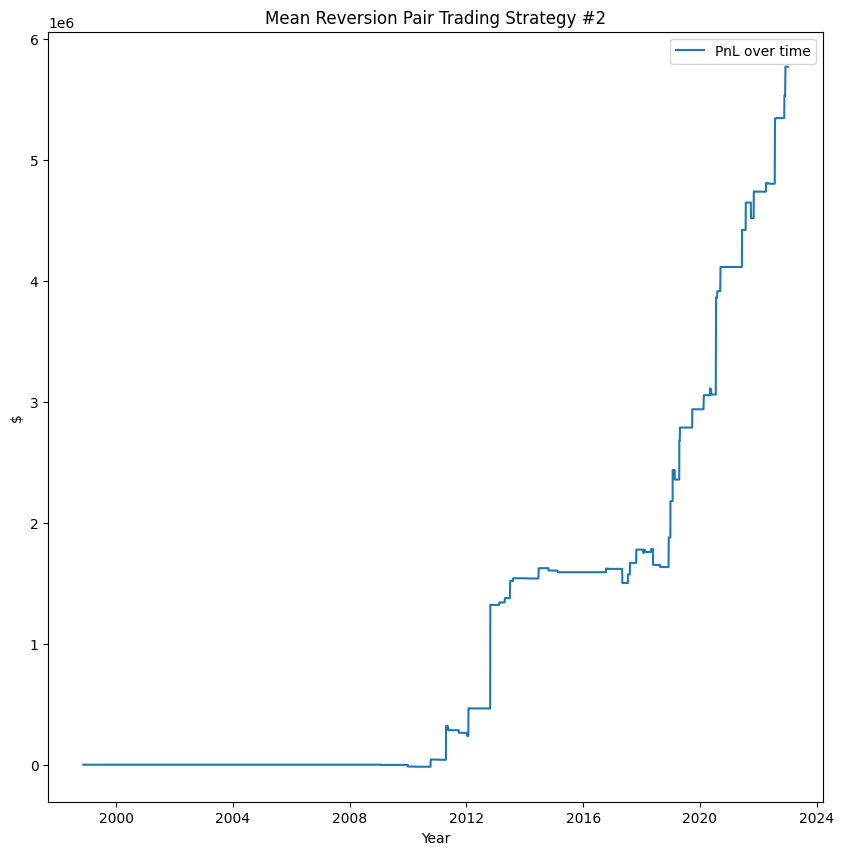
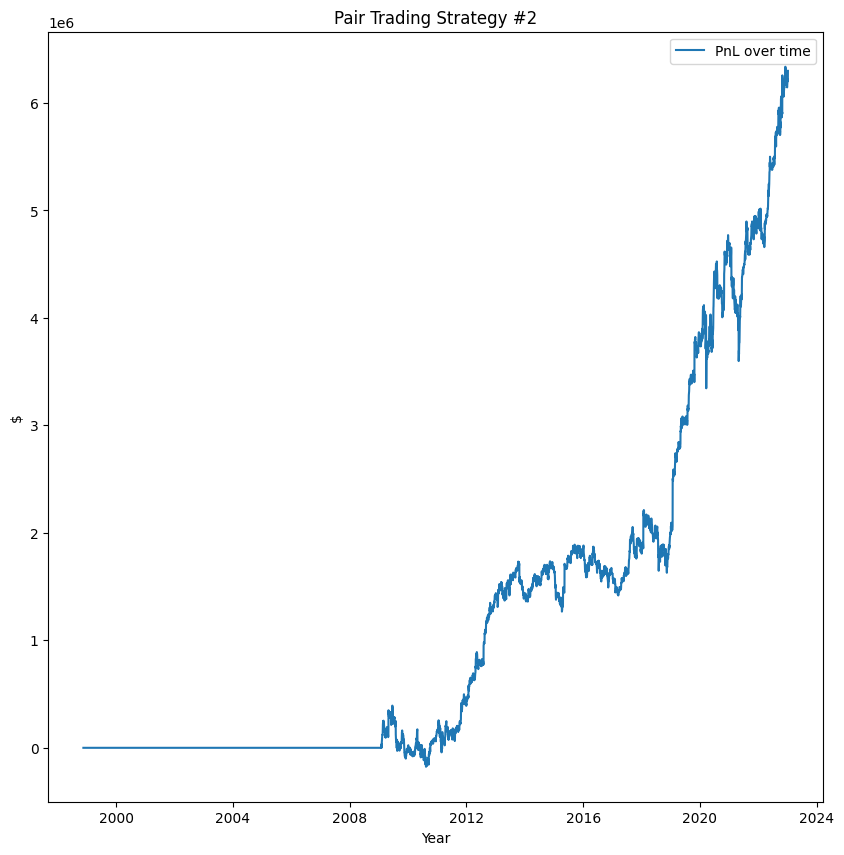
update all results

diff --git a/content/featured/Strategy 1/index.md b/content/featured/Strategy 1/index.md
@@ -1,7 +1,7 @@
 ---
 date: '1'
 title: 'Pair Trading Strategy #1'
-cover: './finalresult.png'
+cover: './01 result.png'
 github: ''
 external: ''
 tech:
@@ -11,7 +11,7 @@ tech:
 
 First pair trading strategy on a select 6 pairs of stocks, with the ticket size for each triggered trade (long/short) valued at $1m. From 1995-2022:
 
-- Maximum recorded loss is -$21,560.12
-- Maximum recorded profit is $15,610,691.54
+- Maximum recorded loss is -$194,261.49
+- Maximum recorded profit is $18,768,260.42
 
 Last updated: Jan'22

diff --git a/content/featured/Strategy 2/index.md b/content/featured/Strategy 2/index.md
@@ -11,7 +11,7 @@ tech:
 
 Second pair trading strategy on a select 6 pairs of stocks, with the ticket size for each triggered trade (long/short) valued at $1m. From 2010-2022:
 
-- Maximum recorded loss is -$16,727.03
-- Maximum recorded profit is $5,771,002.04
+- Maximum recorded loss is -$175,957.85
+- Maximum recorded profit is $6,336,948.50
 
 Last updated: Jan'22
